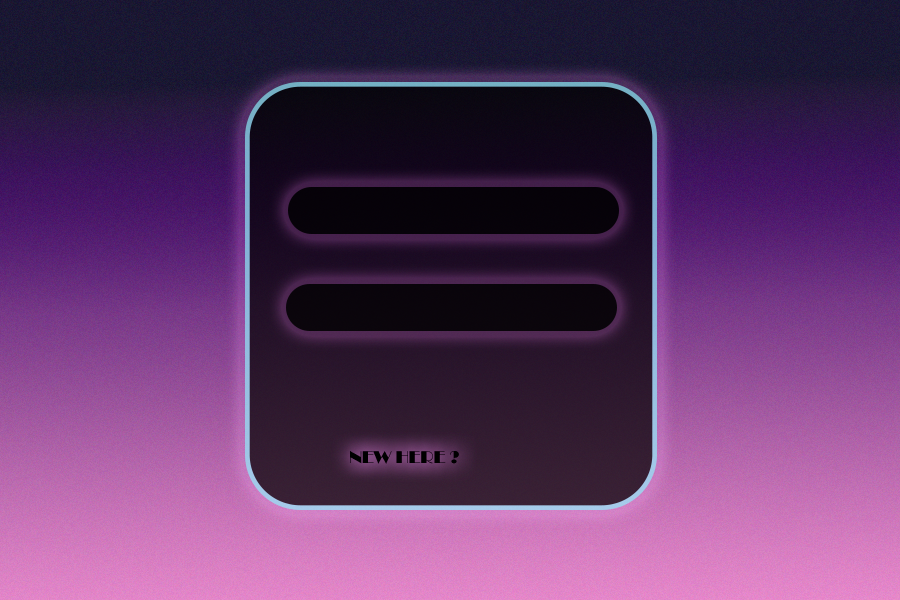
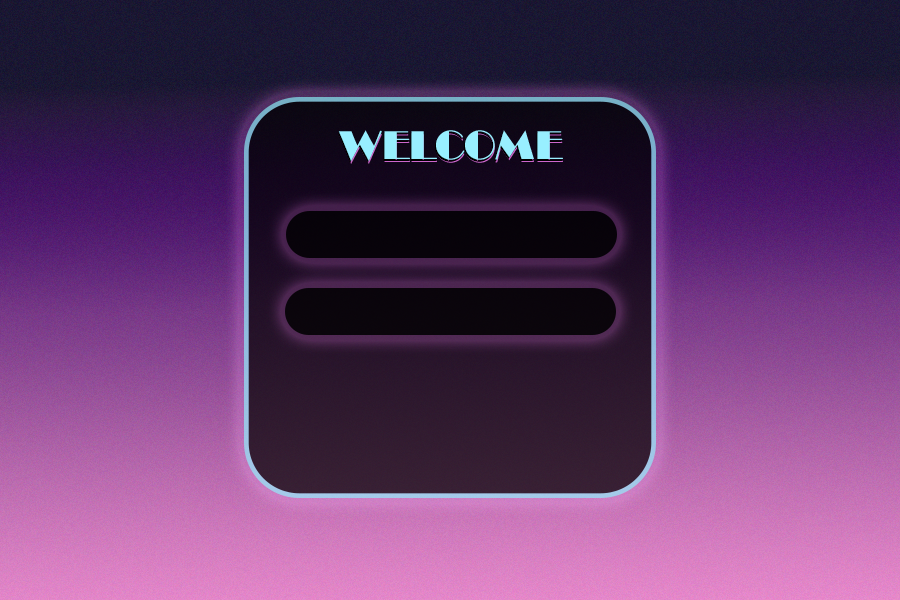
render_log_in and render_sign_in : done

Changed region(s): [[0.2489, 0.12, 0.7467, 0.87], [0.2489, 0.27, 0.28, 0.78], [0.3111, 0.54, 0.6844, 0.57]]

diff --git a/Render/render_main.py b/Render/render_main.py
@@ -32,14 +32,13 @@ def render_sign_in(event=None):
     background_image = Image(primus_canvas, 0, 0, './assets/bcg_signin.png')
     background_image.draw()
 
-    # frame_entry = tk.Frame(screen, bg='black', bd=0, padx=0, pady=0, relief="flat")
-    # frame_entry.place(x=300, y=141)
-
-    # entree = Entry(frame_entry, width=20, font=("Arial", 20), insertbackground="red", bg="black", fg="white", relief="flat")
-    # entree.insert(0, "Username")
-    # entree.pack()
     entry1 = CustomEntry(screen, "Username", x=300, y=141)
     entry2 = CustomEntry(screen, "Password", x=300, y=217)
+    entry3 = CustomEntry(screen, "Email", x=300, y=293)
+    entry4 = CustomEntry(screen, "Confirm email", x=300, y=369)
+
+    sign_in_button = Button(primus_canvas, 330, 450, './assets/sign_in_button.png', None)
+    # sign_in_button.bind('<Button-1>', render_sign_in)
 
 
     primus_canvas.update()
@@ -50,6 +49,18 @@ def render_log_in(event=None):
 
     background_image = Image(primus_canvas, 0, 0, './assets/bcg_login.png')
     background_image.draw()
+
+    entry2 = CustomEntry(screen, "Username", x=300, y=217)
+    entry3 = CustomEntry(screen, "Password", x=300, y=293)
+
+    log_in_button = Button(primus_canvas, 340, 360, './assets/log_in_button.png', None)
+    # log_in_button.bind('<Button-1>', render_sign_in)
+
+    new_here_button = Button(primus_canvas, 269, 430, './assets/new_here_button.png', None)
+    new_here_button.bind('<Button-1>', render_sign_in)
+
+    pwd_lost_button = Button(primus_canvas, 430, 430, './assets/pwd_lost_button.png', None)
+    # pwd_lost_button.bind('<Button-1>', render_sign_in)
 
     primus_canvas.update()
     screen.mainloop()
